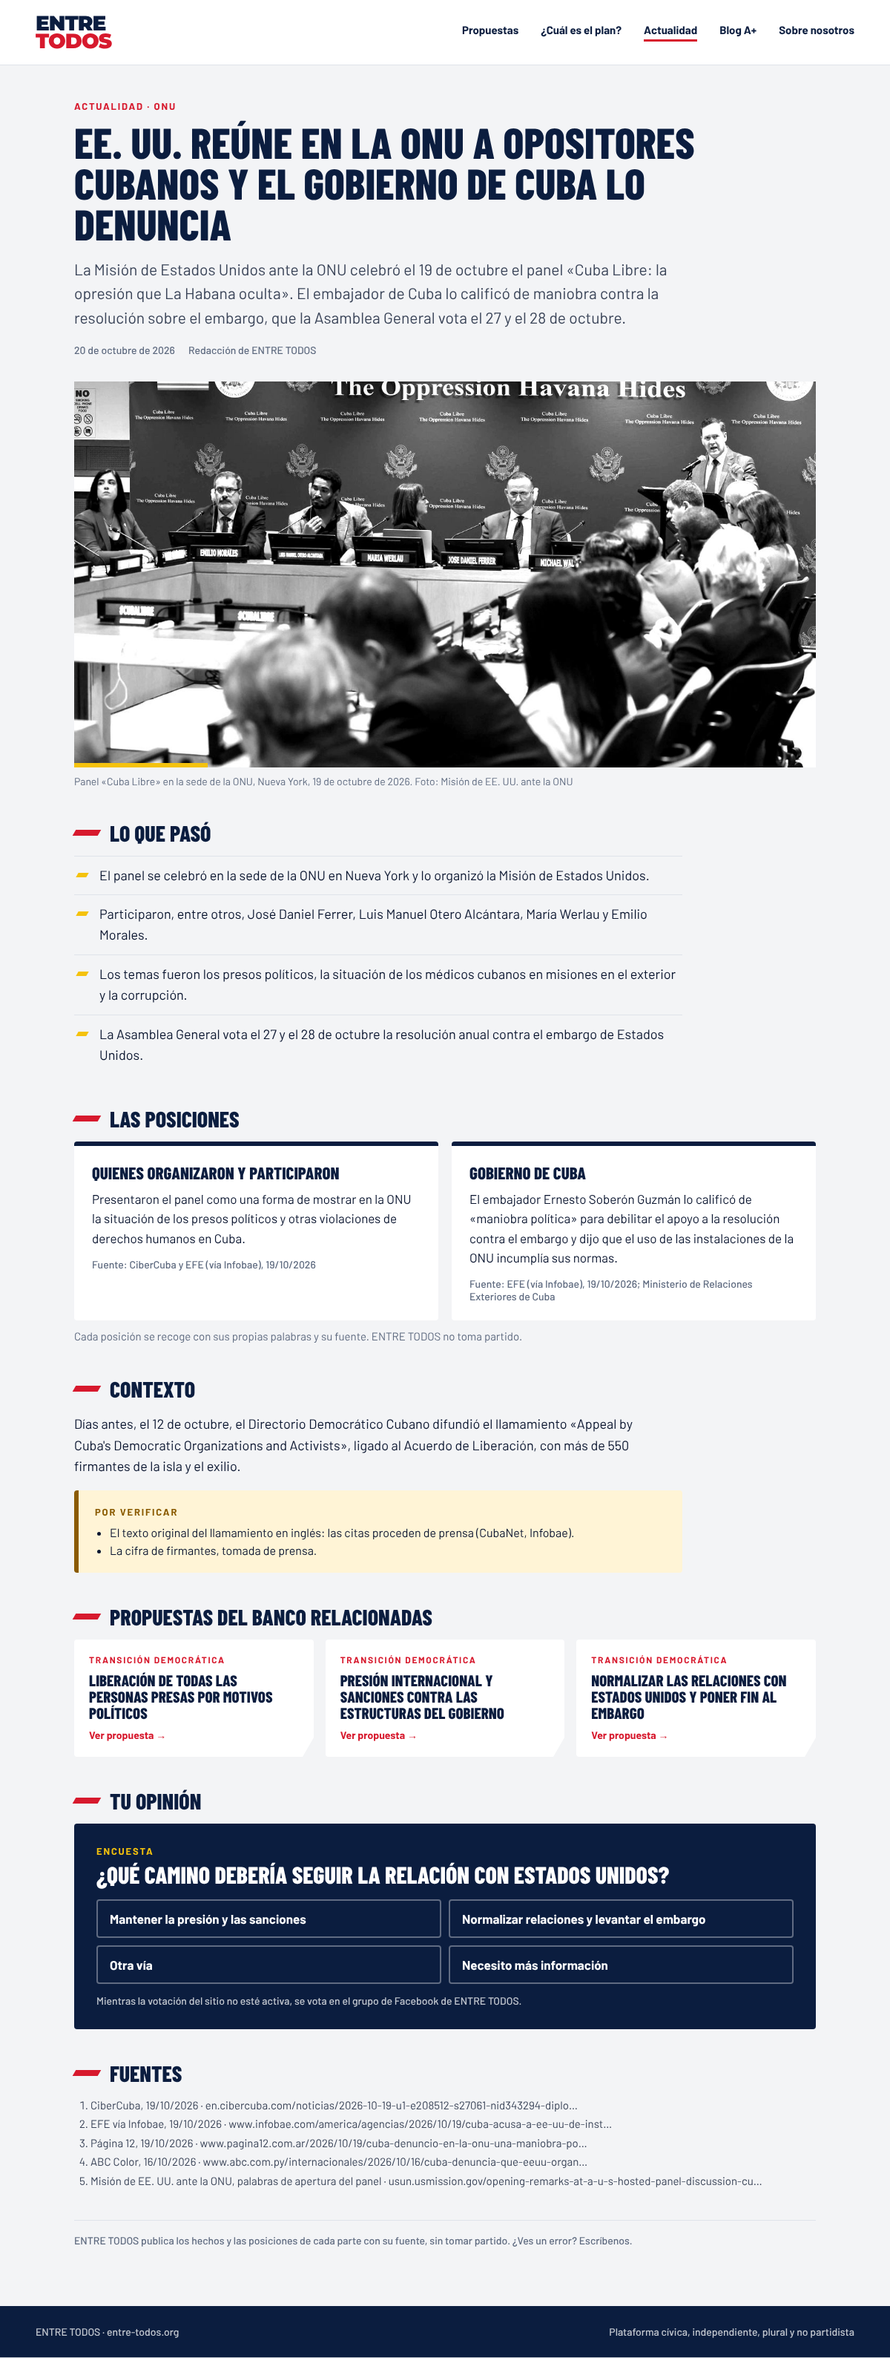
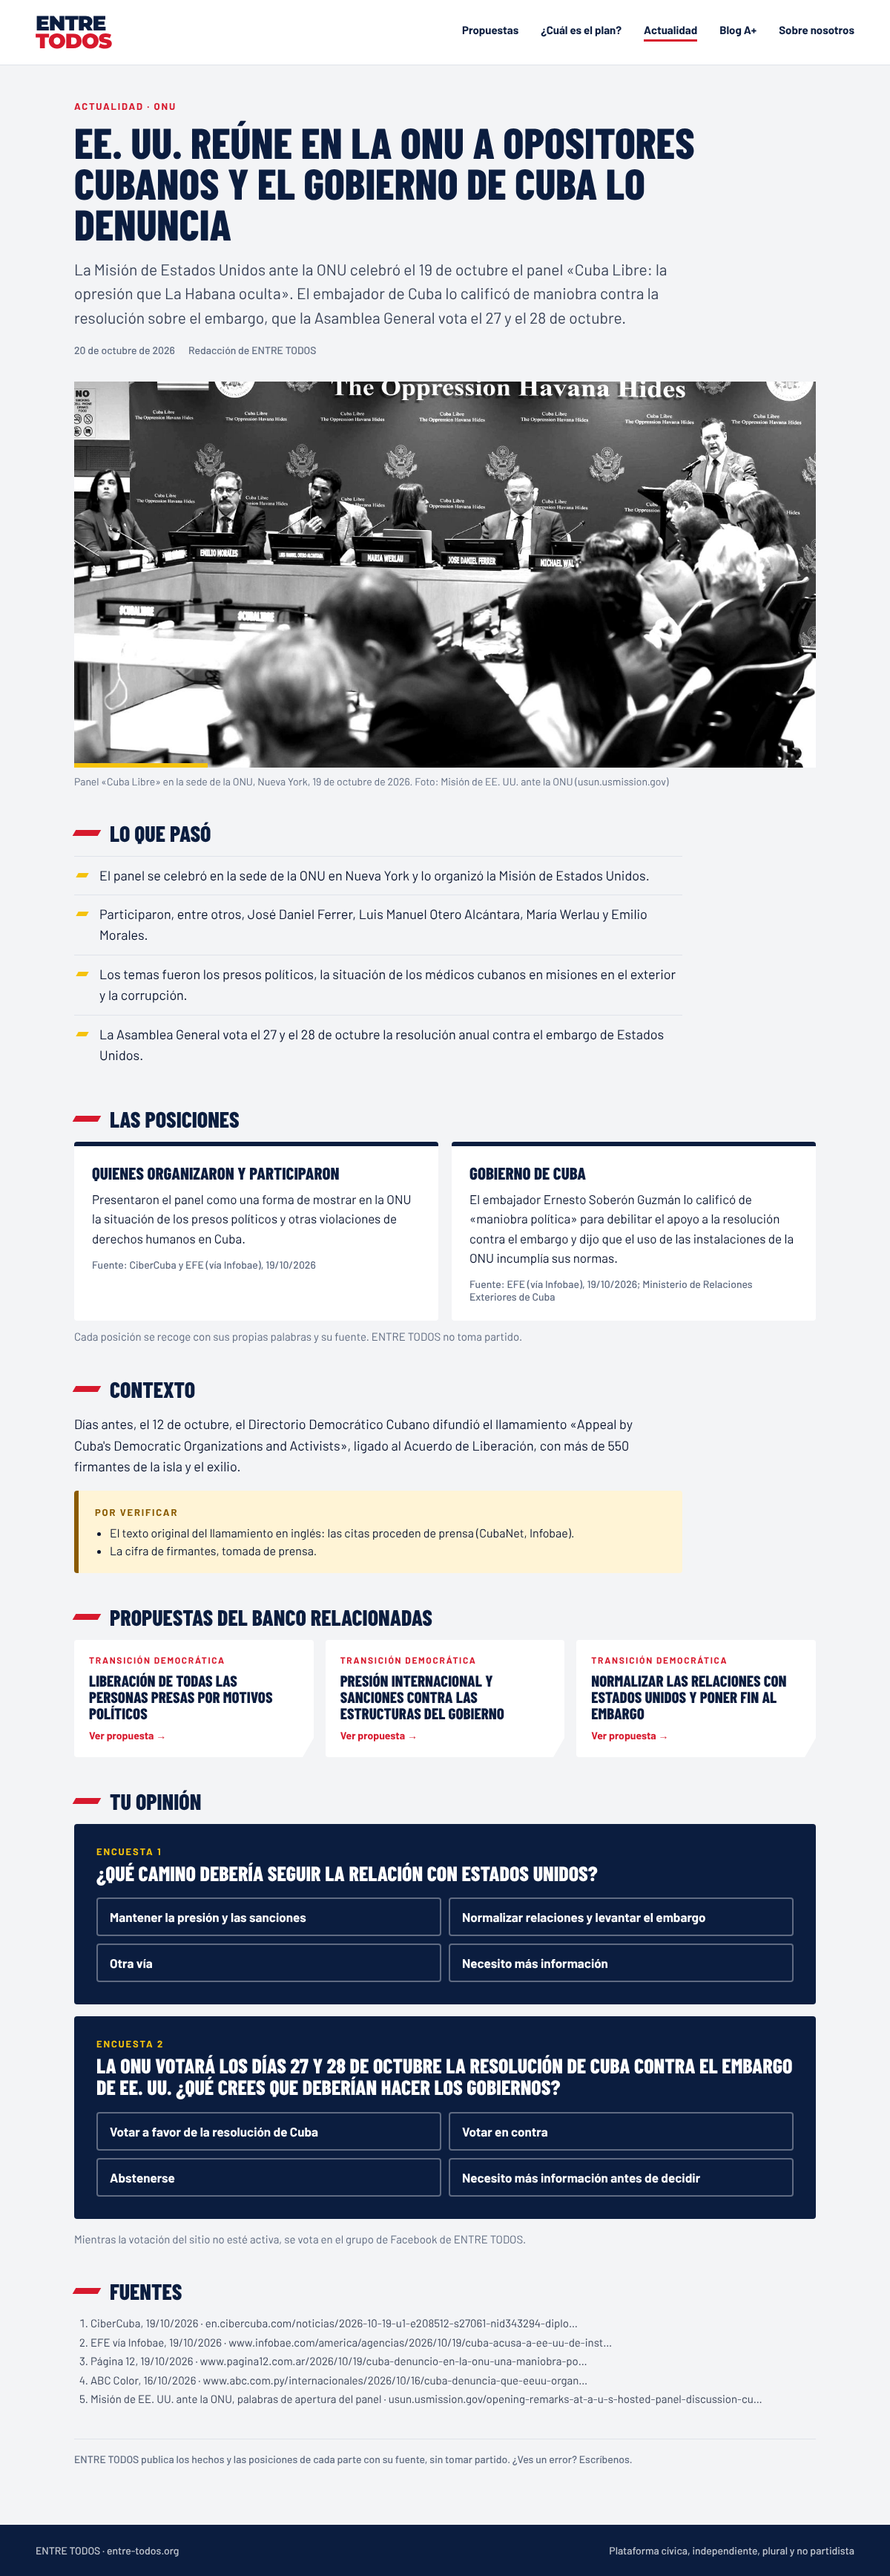
Noticia 001: segunda encuesta (votación de la ONU) y crédito completo de la foto
Claude-Session: https://claude.ai/code/session_01NeHkYtKpNTVMo5tPgtXgnp

Changed region(s): [[0.0, 0.0, 1.0, 1.0]]

diff --git a/scripts/noticias/plantilla.html b/scripts/noticias/plantilla.html
@@ -74,7 +74,7 @@
 .pagina .props a .v{margin-top:auto;font:700 14px B;color:var(--r)}
 .pagina .props a::after{content:"";position:absolute;right:0;bottom:0;border-style:solid;border-width:0 0 26px 15px;border-color:transparent transparent var(--f) transparent}
 .pagina .voto{background:var(--m);color:#fff;padding:30px;border-radius:4px}
-.pagina .voto .q{font:800 32px/1 BC;text-transform:uppercase;margin:6px 0 18px}
+.pagina .voto .q{font:800 28px/1.05 BC;text-transform:uppercase;margin:6px 0 18px}
 .pagina .voto .ops{display:grid;grid-template-columns:1fr 1fr;gap:10px}
 .pagina .voto .ops span{border:2px solid rgba(255,255,255,.35);padding:14px 16px;font:600 17px B;border-radius:4px}
 .pagina .voto .ante{color:var(--a)}
@@ -86,13 +86,14 @@
 <script>
 window.pintar=(D,F,P)=>{
  const f=F+D.foto.archivo+'.jpg';
+ const ENC=D.encuestas||(D.encuesta?[D.encuesta]:[]);
  const logo=(c)=>'<div class="logo '+(c||'')+'">Entre<b>Todos</b></div>';
  const ancha='<div class="pieza ancha" id="ancha"><div class="foto" style="background-image:url('+f+');background-position:70% center"></div><div class="panel"></div>'+
   '<div class="c">'+logo('bl')+'<div style="height:26px"></div><div class="ante">Actualidad · '+D.seccion+'</div><h1>'+D.titular+'</h1><div class="am"></div>'+
   '<div class="pie"><span>'+D.fecha+'</span><span>entre-todos.org/actualidad</span></div></div><div class="cred">'+D.foto.credito+'</div></div>';
  const cuadrada='<div class="pieza cuadrada" id="cuadrada"><div class="foto" style="background-image:url('+f+')"></div><div class="barra-am"></div><div class="marca"></div>'+logo()+
   '<div class="cred">'+D.foto.credito+'</div><div class="c"><div class="ante">Actualidad · '+D.seccion+'</div><h1>'+D.titular+'</h1><div class="am"></div></div>'+
-  '<div class="cta"><span class="btn">Vota en la encuesta</span><span class="url">entre-todos.org</span></div></div>';
+  '<div class="cta"><span class="btn">'+(ENC.length>1?'Vota en las encuestas':'Vota en la encuesta')+'</span><span class="url">entre-todos.org</span></div></div>';
  const props=D.propuestas.map(id=>{const p=P[id]||{t:id,k:''};return '<a><span class="k">'+p.k+'</span><span class="t">'+p.t+'</span><span class="v">Ver propuesta →</span></a>';}).join('');
  const pagina='<div class="pieza pagina" id="pagina"><div class="cab">'+logo()+'<nav><span>Propuestas</span><span>¿Cuál es el plan?</span><span class="act">Actualidad</span><span>Blog A+</span><span>Sobre nosotros</span></nav></div>'+
   '<div class="art"><div class="ante">Actualidad · '+D.seccion+'</div><h1>'+D.titular+'</h1><p class="entr">'+D.entradilla+'</p><div class="meta"><span>'+D.fecha+'</span><span>Redacción de ENTRE TODOS</span></div>'+
@@ -103,7 +104,7 @@ window.pintar=(D,F,P)=>{
   '<h2>Contexto</h2><p class="cuerpo">'+D.contexto+'</p>'+
   (D.por_verificar.length?'<div class="aviso"><b>Por verificar</b><ul>'+D.por_verificar.map(x=>'<li>'+x+'</li>').join('')+'</ul></div>':'')+
   '<h2>Propuestas del banco relacionadas</h2><div class="props">'+props+'</div>'+
-  '<h2>Tu opinión</h2><div class="voto"><div class="ante">Encuesta</div><div class="q">'+D.encuesta.pregunta+'</div><div class="ops">'+D.encuesta.opciones.map(o=>'<span>'+o+'</span>').join('')+'</div><div class="n">Mientras la votación del sitio no esté activa, se vota en el grupo de Facebook de ENTRE TODOS.</div></div>'+
+  '<h2>Tu opinión</h2>'+ENC.map((e,i)=>'<div class="voto" style="margin-bottom:16px"><div class="ante">Encuesta'+(ENC.length>1?' '+(i+1):'')+'</div><div class="q">'+e.pregunta+'</div><div class="ops">'+e.opciones.map(o=>'<span>'+o+'</span>').join('')+'</div></div>').join('')+'<p class="nota">Mientras la votación del sitio no esté activa, se vota en el grupo de Facebook de ENTRE TODOS.</p>'+
   '<h2>Fuentes</h2><ol class="fuentes">'+D.fuentes.map(x=>'<li>'+x.nombre+' · '+x.url.replace(/^https?:\/\//,'').slice(0,70)+'…</li>').join('')+'</ol>'+
   '<p class="neutral">ENTRE TODOS publica los hechos y las posiciones de cada parte con su fuente, sin tomar partido. ¿Ves un error? Escríbenos.</p></div>'+
   '<div class="pieweb"><span>ENTRE TODOS · entre-todos.org</span><span>Plataforma cívica, independiente, plural y no partidista</span></div></div>';

diff --git a/scripts/noticias/LEEME.md b/scripts/noticias/LEEME.md
@@ -40,7 +40,7 @@ El resultado queda en `salida/<id>/`.
 - `contexto`: un párrafo.
 - `por_verificar`: lo que viene solo de prensa o sin original. Si todo está verificado, se deja vacío.
 - `propuestas`: ids del banco relacionados, como máximo tres.
-- `encuesta`: una pregunta y de tres a cuatro opciones. Una de ellas siempre es «Necesito más información».
+- `encuestas`: una o dos encuestas, cada una con una pregunta y de tres a cuatro opciones. Una opción siempre es «Necesito más información». La primera puede ser la cuestión del banco relacionada y la segunda, sobre el hecho de la noticia. Con dos encuestas, el botón de la portada cuadrada dice «Vota en las encuestas».
 - `fuentes`: nombre del medio con su fecha y la URL.
 
 ## Reglas editoriales
